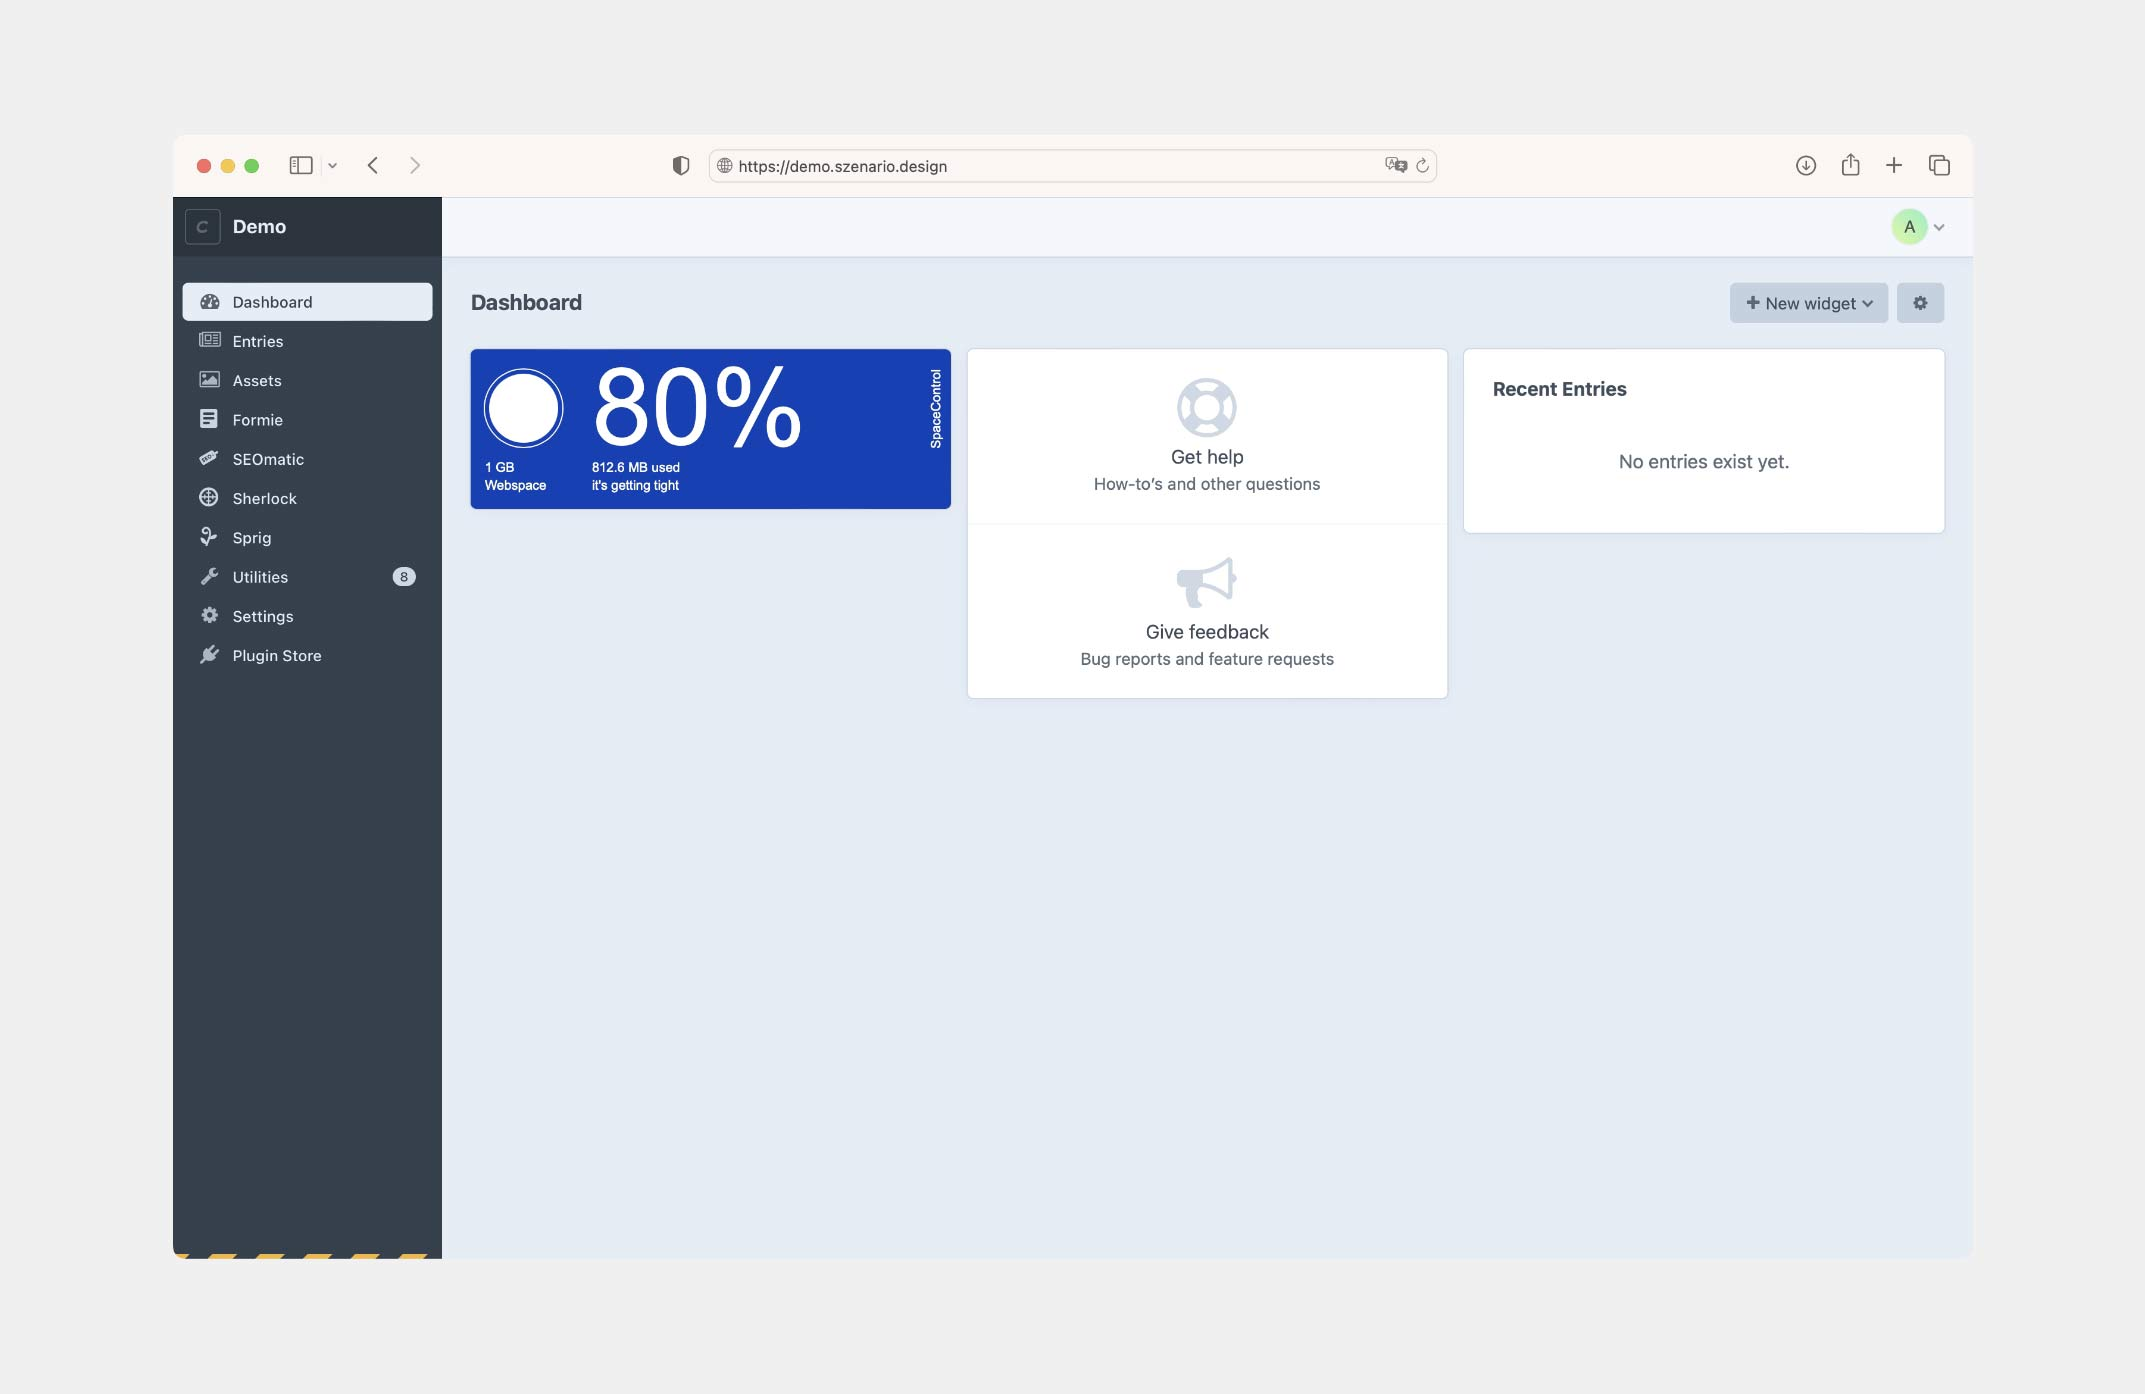
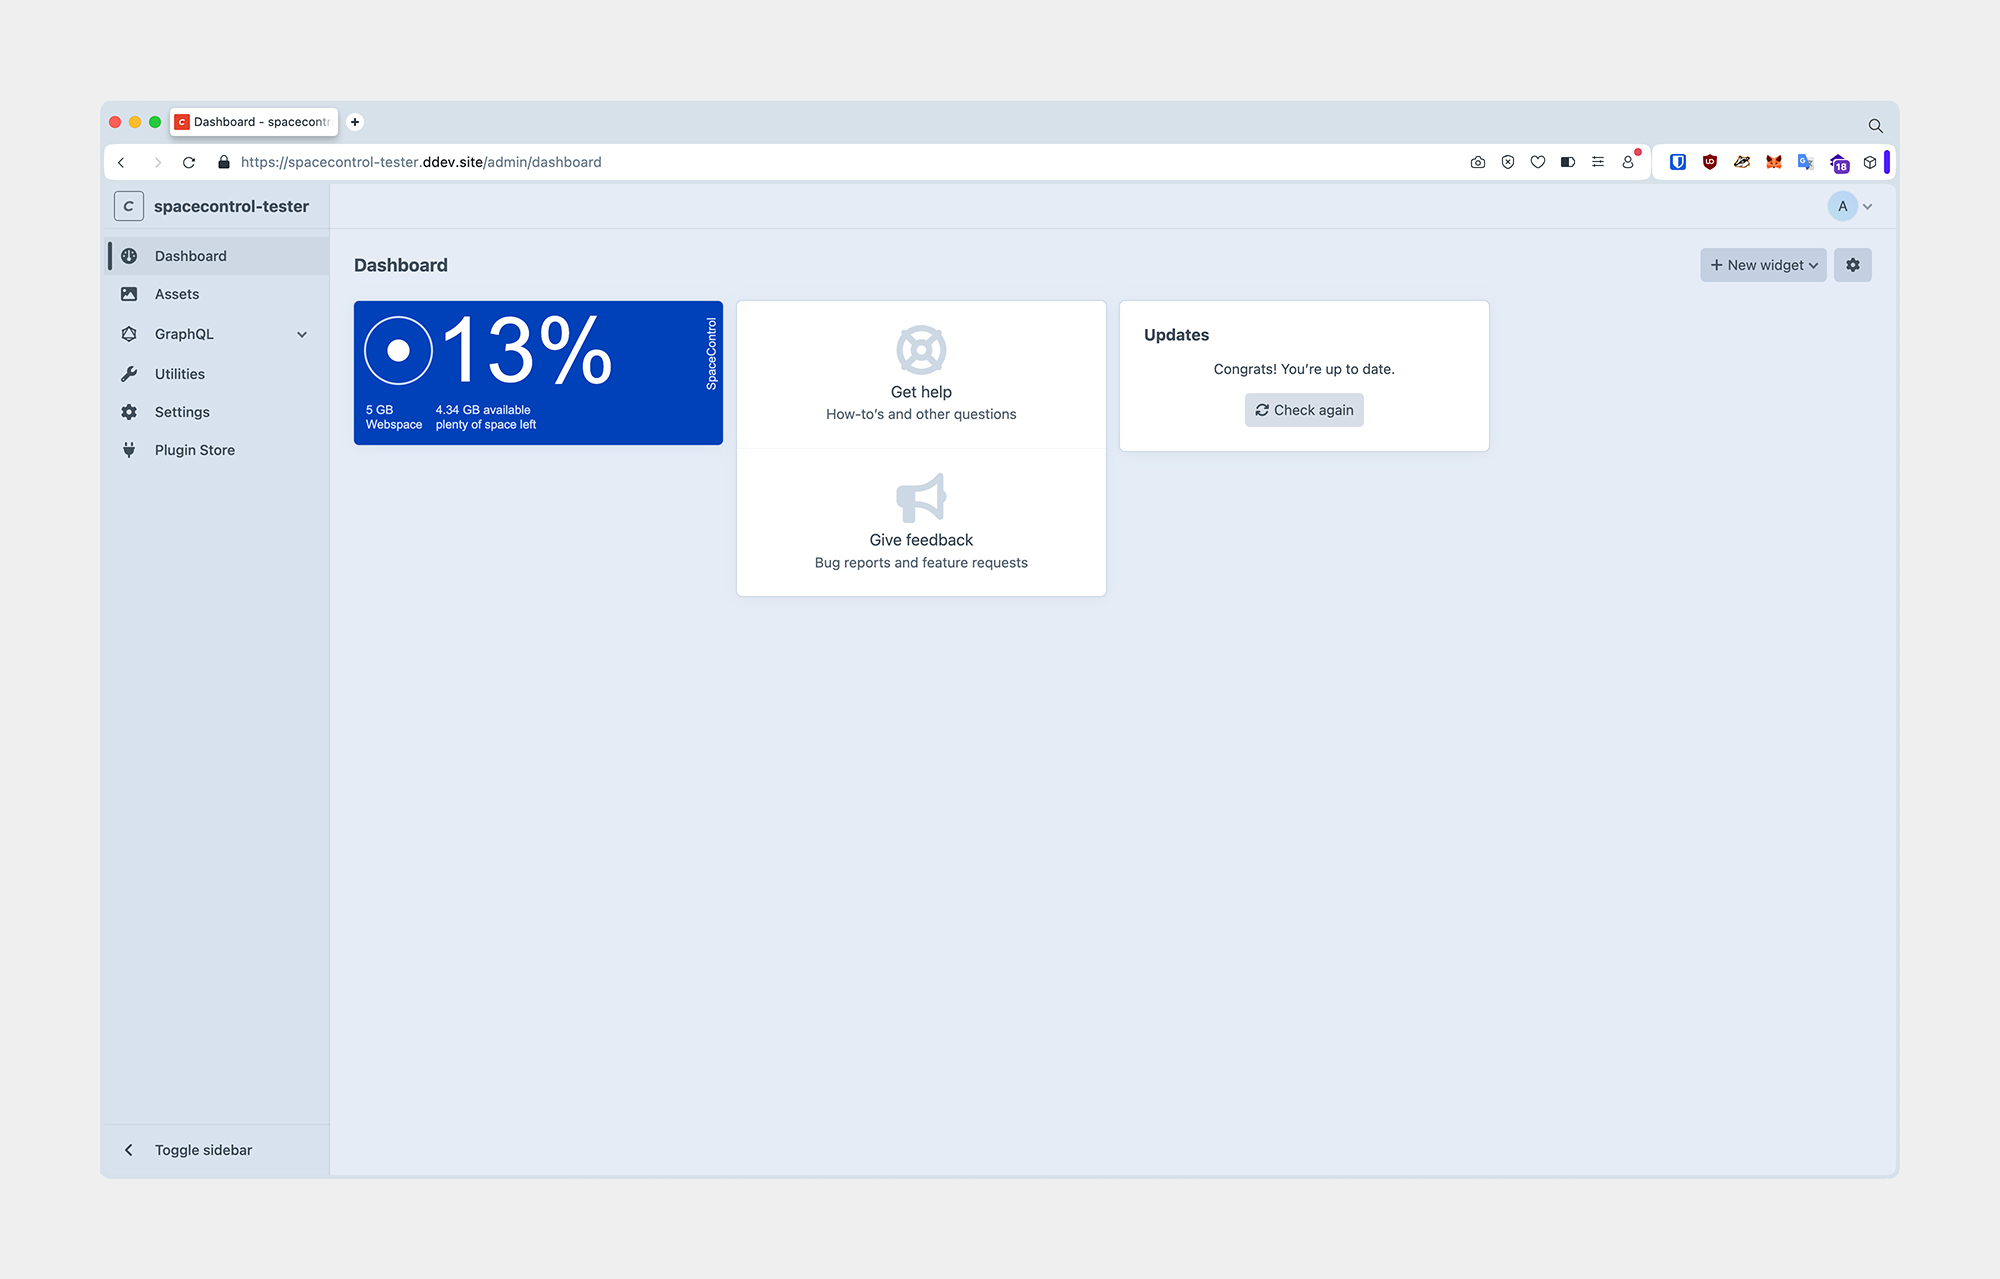
new screenshot

Changed region(s): [[0.031, 0.061, 0.961, 0.9148]]

diff --git a/src/assetbundles/spacecontrol/dist/css/SpaceControlSettings.css b/src/assetbundles/spacecontrol/dist/css/SpaceControlSettings.css
@@ -21,7 +21,10 @@
 .sCS .flexContainer-addon {
     padding-left:6px;
 }
-.sCS .flexContainer {display:flex;align-items:center;}
+.sCS .flexContainer {
+    display:flex;
+    align-items:center;
+}
 
 .sCS .setting-block{
     margin-bottom:2.2rem;
